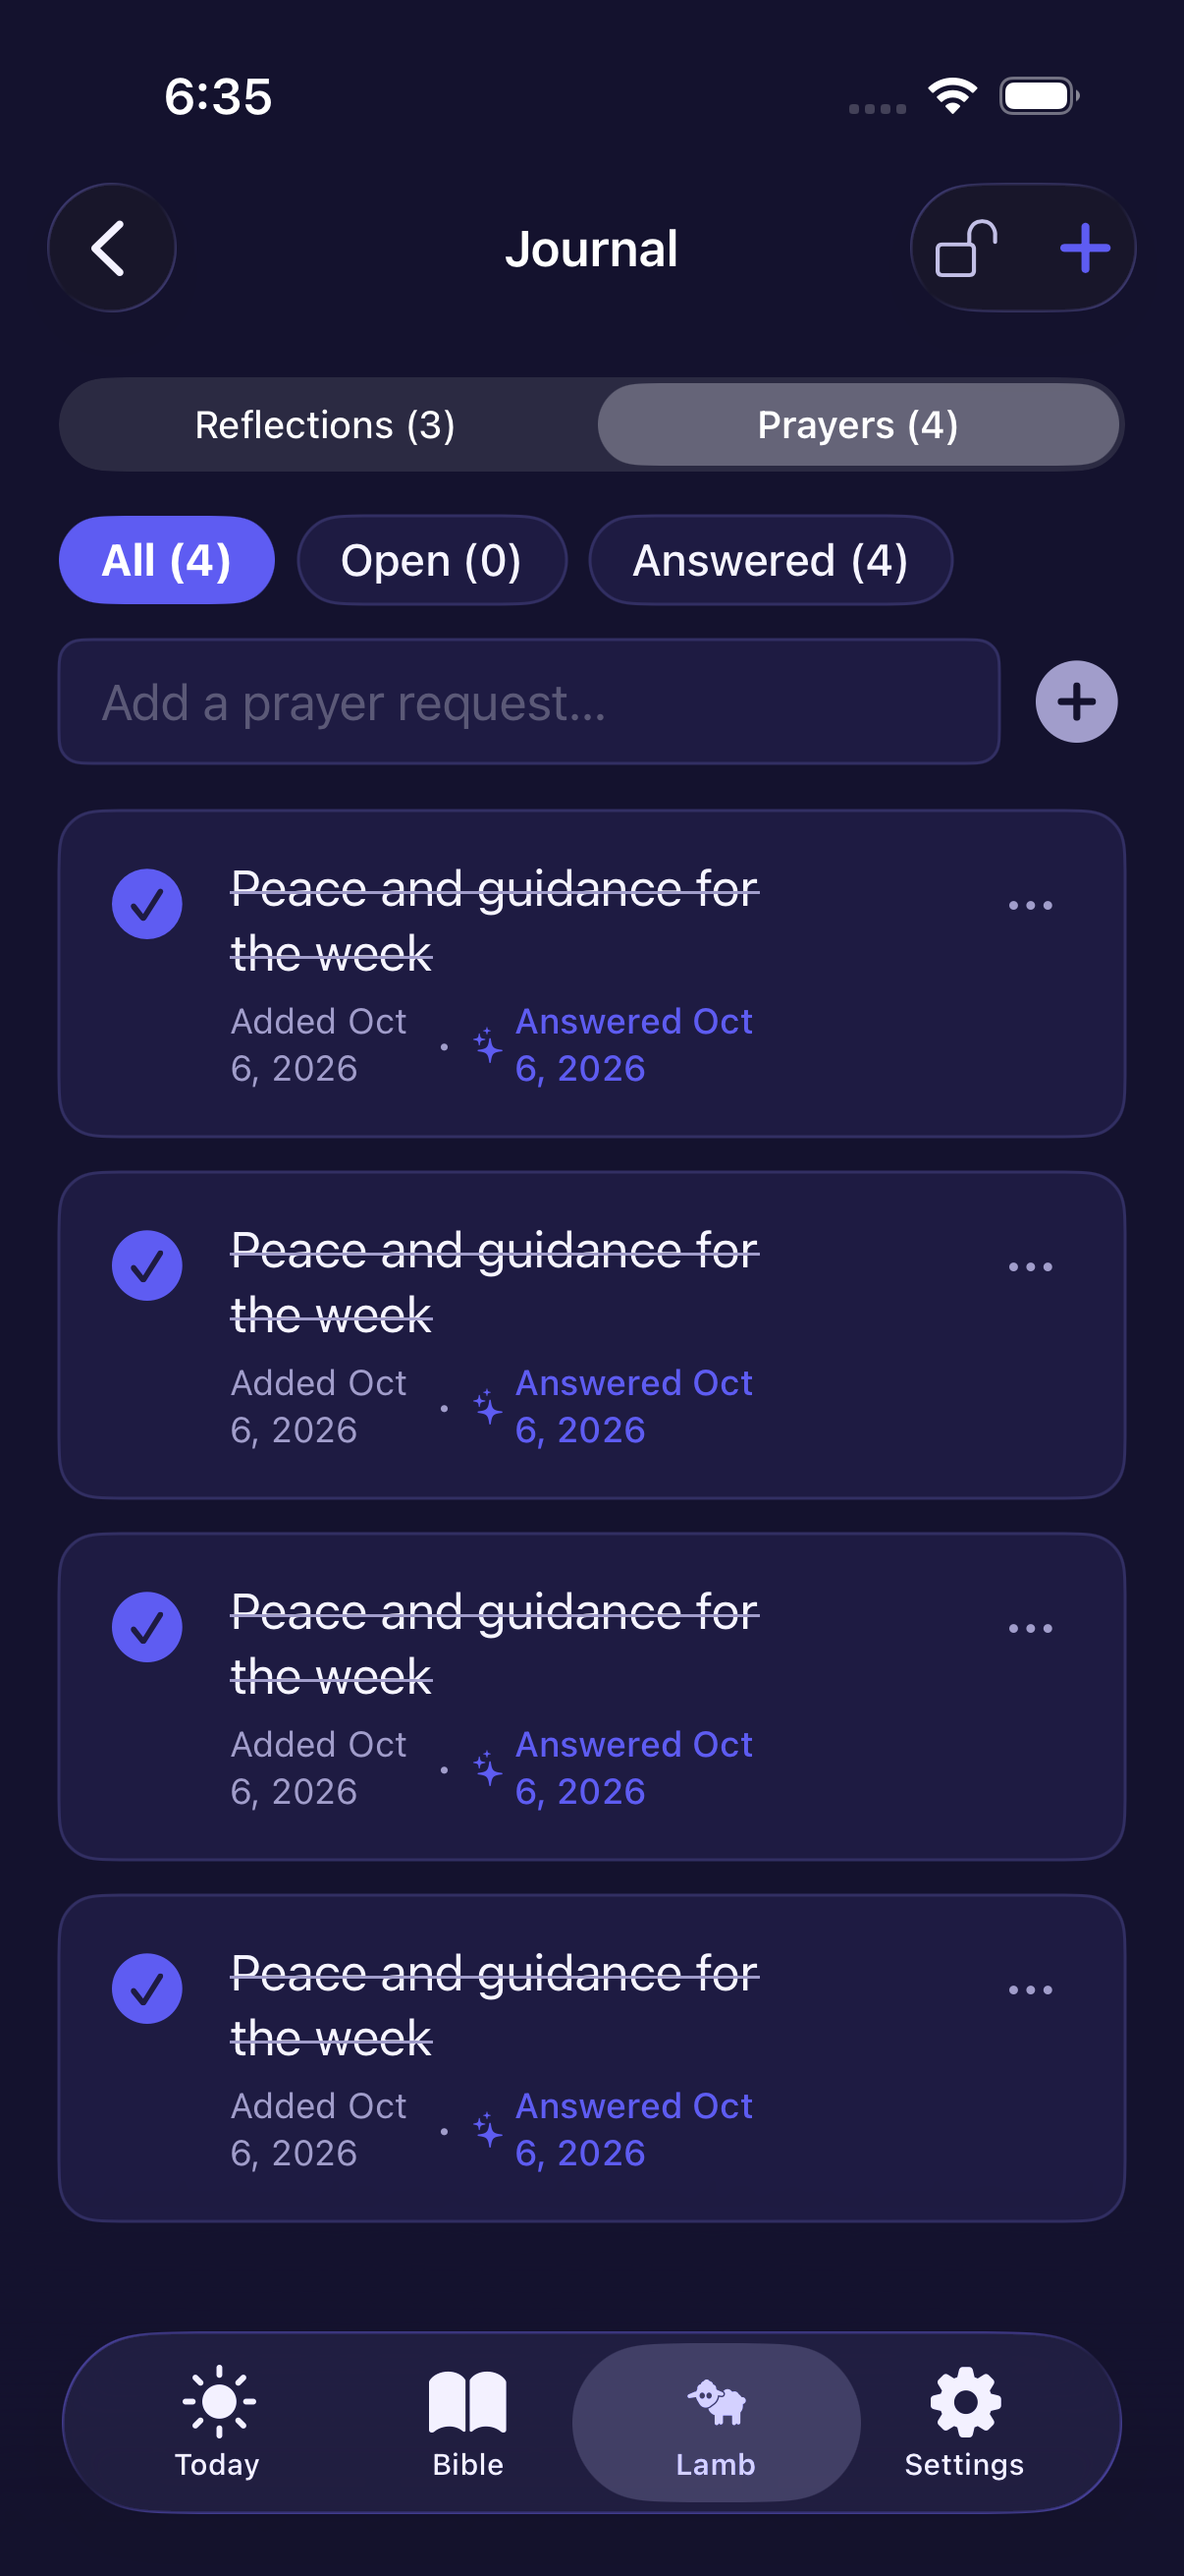
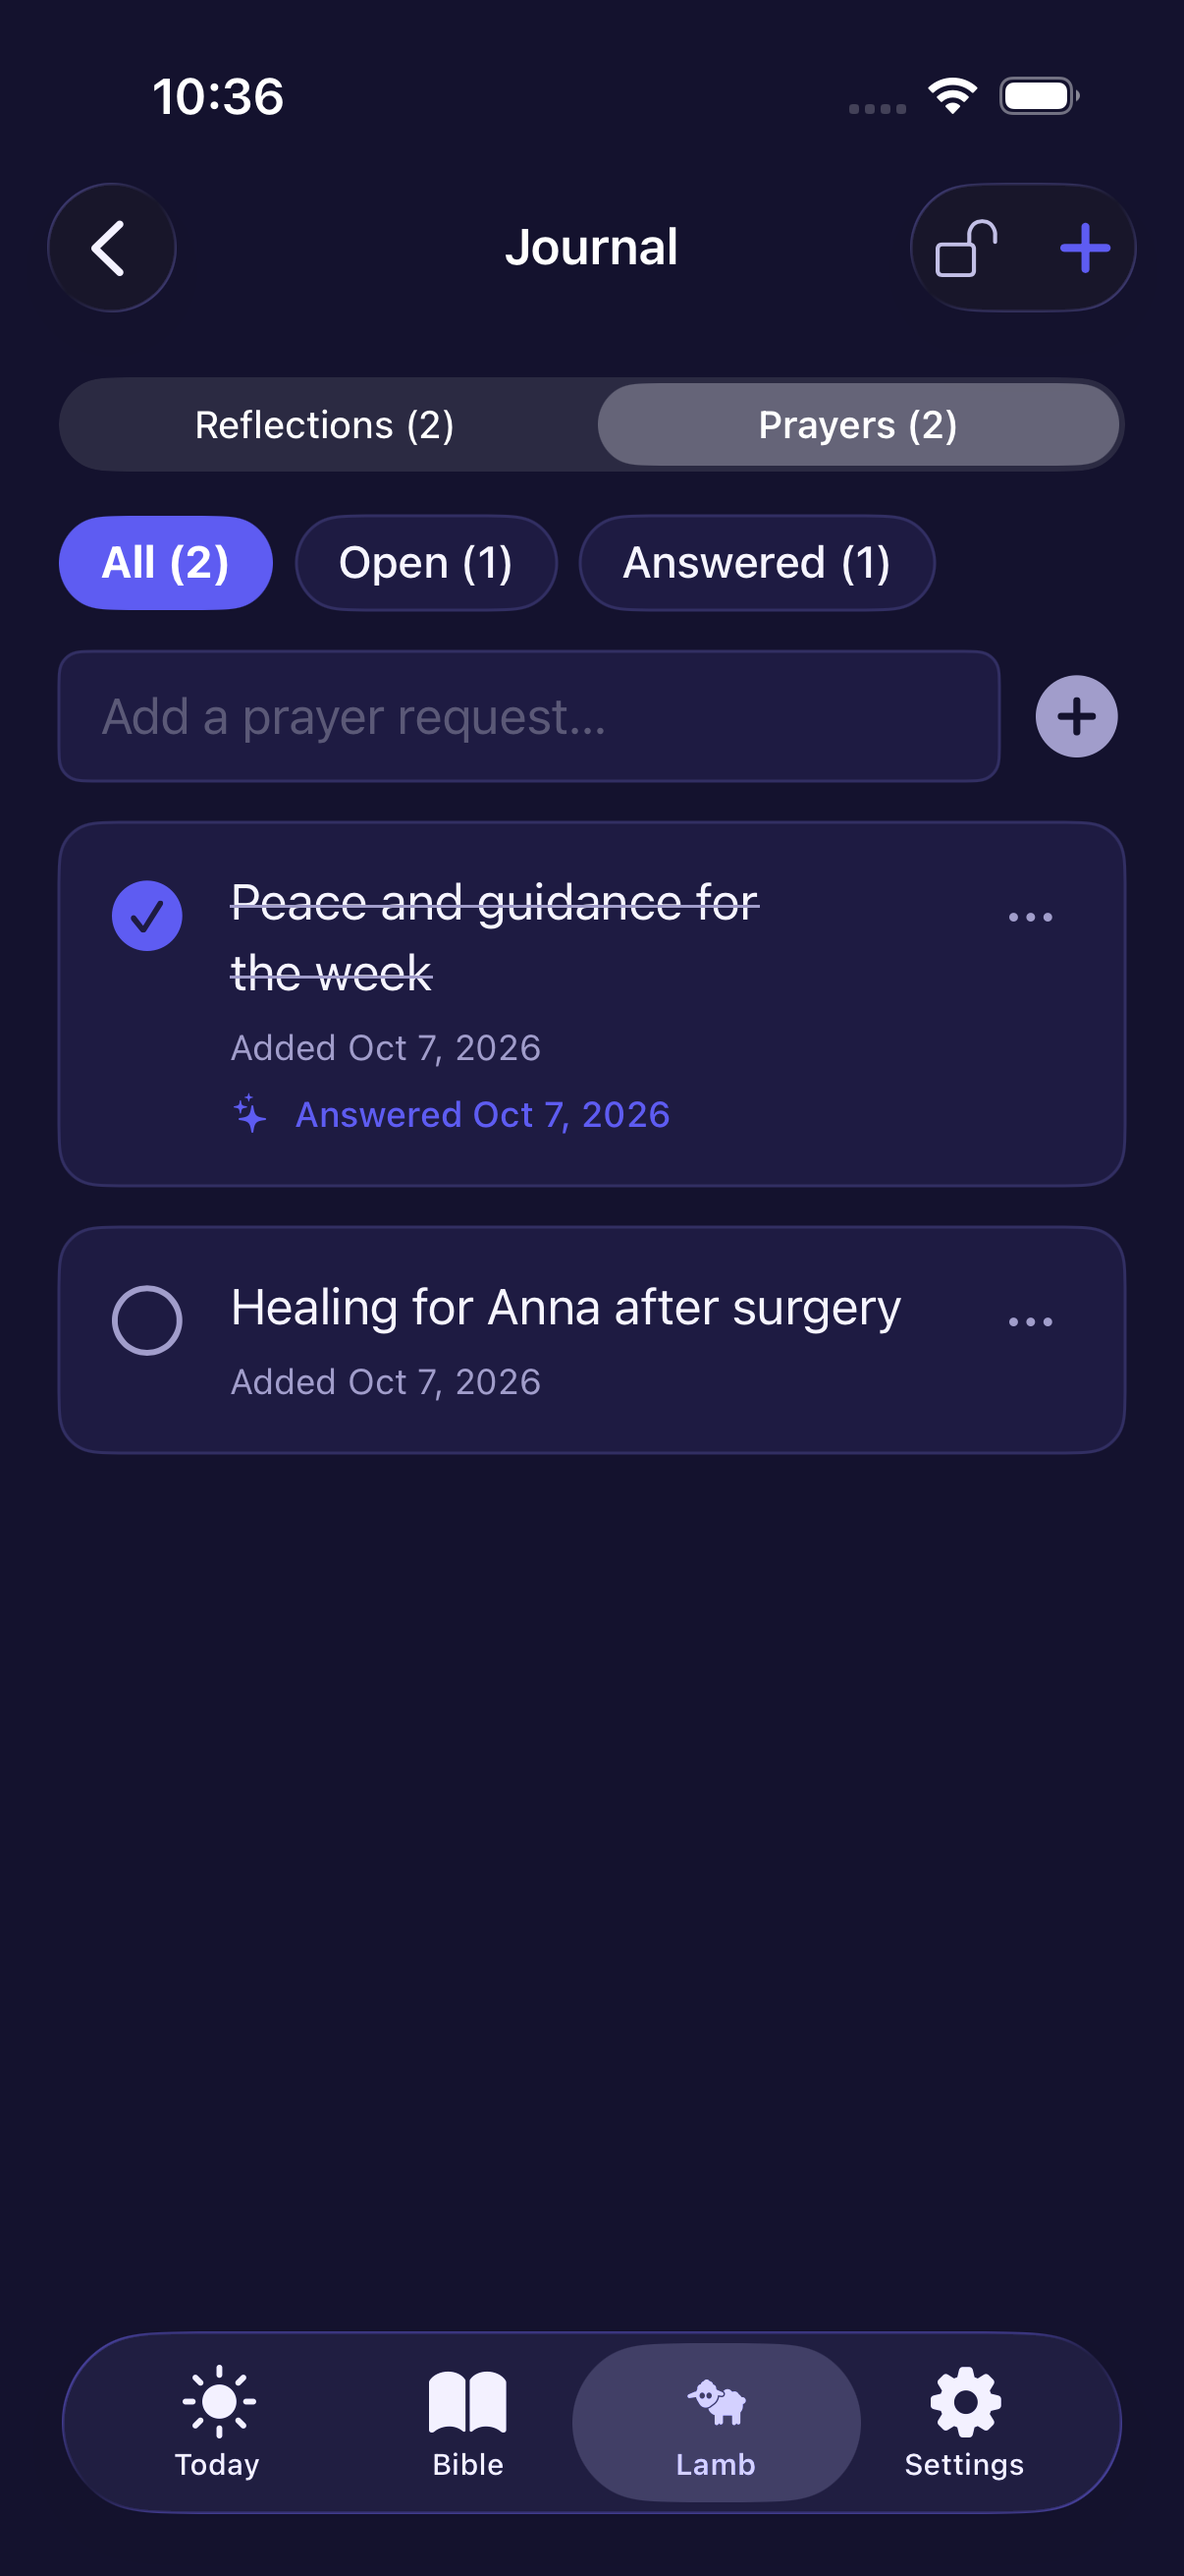
Re-capture journal screenshots from a reset store; add journal to captures
Journal, reflection, by-path, locked and AX3 journal screens (light, dark),
plus Lamb and Settings, which now show the Journal entry points.

diff --git a/tools/run_all_captures.py b/tools/run_all_captures.py
@@ -87,6 +87,10 @@ def main():
     run_test("testPathCompleteLight", "light", "large", uninstall_first=True)
     run_test("testPathCompleteDark", "dark", "large", uninstall_first=True)
 
+    # 2c. Reflection step and Journal (light, dark)
+    run_test("testJournalAndReflectionLight", "light", "large", uninstall_first=True)
+    run_test("testJournalAndReflectionDark", "dark", "large", uninstall_first=True)
+
     # 3. AX3 Light
     run_test("testAccessibilityAX3Light", "light", "accessibility-extra-large", uninstall_first=True)
     

diff --git a/AGENTS.md b/AGENTS.md
@@ -10,7 +10,7 @@ This file is the project's committed home for project-intrinsic agent knowledge:
 - Scripture, lesson and quiz text in designs must come verbatim from `Shepherd/Resources/Content/*.json` (WEB). Green/red are reserved for quiz correctness.
 - Bible text (`web.json`, WEB `engwebp`) is generated by `tools/bible/build_web.py` from a SHA-256-pinned eBible zip; never hand-edit it (the "World English Bible" name is only allowed for unchanged text, punctuation included). Lesson content (`paths.json`) must pass `python3 -I tools/content/validate_content.py` (`--release` also rejects `draft` paths) and `python3 -I -m unittest discover -s tools/content`; every quiz question needs an `answerRef` proof verse among the lesson's `verseRefs`. Lesson ids are global progress keys: never rename one. The app shows lesson text through `LessonText` (curly quotes at display time, the `**Reflection:**` paragraph as a heading), so keep straight quotes in the JSON. Write lessons to `docs/content/STYLE.md`; `python3 -I tools/content/content_summary.py --lessons` gives the review table.
 - `ShepherdTests/StoreKitTests` hangs in a fresh simulator clone (`[SKTestSession] Error saving configuration file: SKInternalErrorDomain Code=3`, then the test never returns); run the other suites with `-only-testing:` per class (`ContentTests`, `ShepherdTests`, `ReminderTests`, `ReviewPromptTests`, `StreakFreezeTests`) when it does. On iOS 26 StoreKit reports the `P1W` trial as 7 days, so check the period's length, not its unit.
-- UI tests: the shared scheme sets `SHOT_DIR` to `docs/screenshots`, so a run overwrites committed screenshots unless you pass `TEST_RUNNER_SHOT_DIR=<scratch dir>` to xcodebuild. DEBUG launch args `-uitestCompleted <path[:n]|lessonId,...>` and `-uitestPremium` seed progress and Premium (see `RootView.applyUITestState`). `testRealAppFullFlow*` needs a fresh install (`simctl uninstall` first): it skips the onboarding reminder step with "Not now" and taps the springboard "Allow" when it turns the daily reminder on in Settings.
+- UI tests: the shared scheme sets `SHOT_DIR` to `docs/screenshots`, so a run overwrites committed screenshots unless you pass `TEST_RUNNER_SHOT_DIR=<scratch dir>` to xcodebuild. DEBUG launch args `-uitestCompleted <path[:n]|lessonId,...>` and `-uitestPremium` seed progress and Premium (see `RootView.applyUITestState`); `-uitestJournalAuth yes,no,...` answers the journal's Face ID/passcode checks in turn (`JournalAuthService`). Finishing a lesson now opens the optional reflection step after Lesson Complete: tests that expect Today must skip it (`skipReflection` in `RealFlowUITests`). `testRealAppFullFlow*` needs a fresh install (`simctl uninstall` first): it skips the onboarding reminder step with "Not now" and taps the springboard "Allow" when it turns the daily reminder on in Settings.
 - Brand (Flock) source of truth is `tools/brand/`: colours in `tokens.py` (`python3 tools/brand/tokens.py check flock` is the AA gate), the lamb in `lambgen.py` (generated, never hand-drawn). `apply_design.py` writes both into the `.pen` files and `apply_app.py` writes colour sets, `lamb_variants.json`, AppIcon, TabLamb and wordmark. The wordmark text is set in `brandart.py` `WORDMARKS`; regenerate `wordmark.json` from Baloo 2 (`google/fonts` `ofl/baloo2/Baloo2[wght].ttf`). Change a colour or the lamb there, then re-apply to both sides. The scripts need shapely and resvg_py.
 
 ## Maintaining this file
